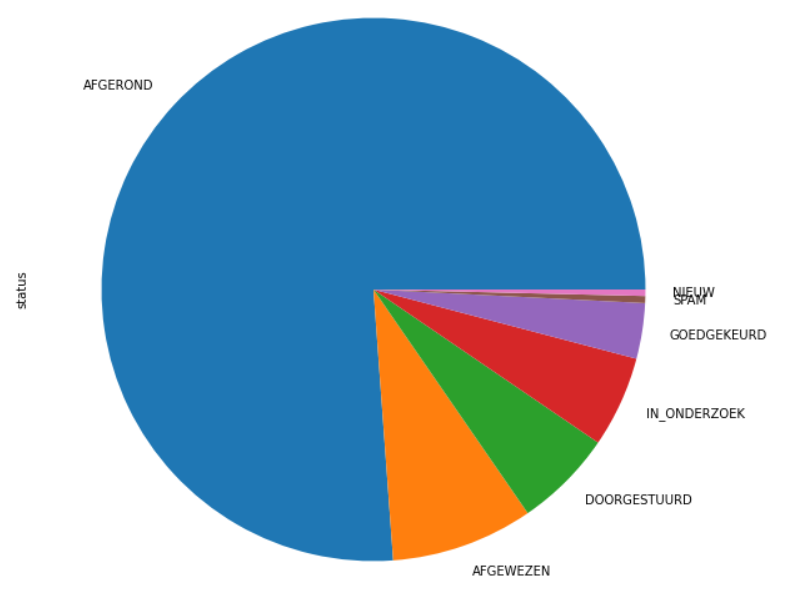
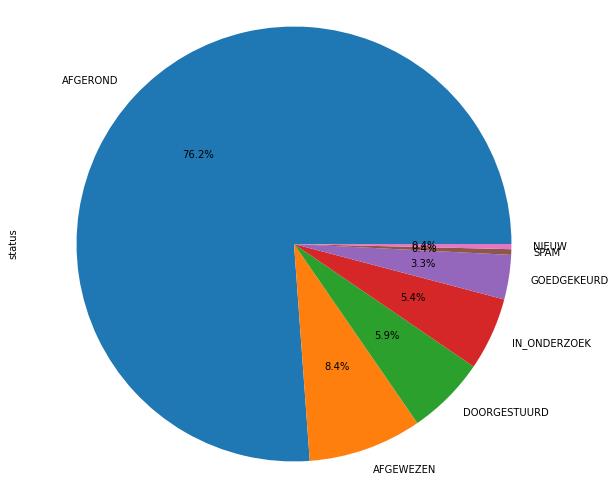
feedback changes bgt terugmeldignen

diff --git a/stories/bgt-terugmeldingen/index.md b/stories/bgt-terugmeldingen/index.md
@@ -3,16 +3,18 @@ layout: default
 title: BGT terugmeldingen
 ---
 
-# BGT terugmeldingen analyse
+<div style="width:50%; margin:0 auto;">
+ 
+<h1>BGT terugmeldingen analyse </h1>
 
-<br>
-
-## 1. Inleiding
+<h2> 1. Inleiding </h2>
 Gebruikers van de Basisregistratie Grootschalige Topografie (BGT) kunnen bij twijfel aan de juistheid van een gegeven een zogenaamde Terugmelding doen. Hiermee geven ze aan dat ze denken dat dit gegeven niet juist is. Het is aan de bronhouders te beoordelen of deze melding terecht is en zo ja om het gegeven te corrigeren.
-
+<br>
+<br>
 Terugmeldingen kunnen worden gedaan door burgers, bedrijven en overheden. In vrijwel alle meldingen wordt alleen in een "vrij tekstveld" informatie over de terugmeldingen meegegeven. Vanuit het BGT team kregen wij als Datascience Team de vraag of wij uit deze "vrije tekstvelden" waardevolle inzichten konden bieden over de terugmelding. Om dit te realiseren hebben wij een export (csv bestand) van de data ontvangen vanuit het terugmeldsysteem. 
-
-In onderstaande figuur is de verhouding van de terugkoppelingen per kanaal te zien.
+<br>
+<br>
+In onderstaande figuur is de verhouding van de terugmeldingen per kanaal te zien.
 
 <br>
 <figure id="figuur-3">
@@ -25,7 +27,7 @@ In onderstaande figuur is de verhouding van de terugkoppelingen per kanaal te zi
 </figure>
 <br>
 
-## 2. Doel Onderzoek
+<h2> 2. Doel Onderzoek </h2>
 Het doel van dit project is om inzicht te bieden op de volgende onderzoeksvragen;
 <br>
 -	Op welke BGT-objecttypen vinden de terugmeldingen plaats.
@@ -35,8 +37,8 @@ Het doel van dit project is om inzicht te bieden op de volgende onderzoeksvragen
 - In welke mate komt de afhandelingstermijn van een terugmelding overeen met de actualiteitseis van het BGT-objecttype.
 <br>
 
-## 3. Aanpak
-Op dit moment worden jaarlijks gemiddeld 7000 terugmeldingen gedaan op de BGT. Deze datastory is gebaseerd op analyse van alle, ruim 40.000 terugmeldingen. In onderstaande grafiek is te zien dat, logischerwijs, iets minder dan een kwart van alle terugmeldingen nog niet is afgerond.
+<h2> 3. Aanpak </h2>
+Op dit moment worden jaarlijks gemiddeld 7000 terugmeldingen gedaan op de BGT. Deze datastory is gebaseerd op analyse van alle, ruim 40.000 terugmeldingen vanaf 2016-06 tot het heden. In onderstaande grafiek is te zien dat, logischerwijs, meer dan driekwart van alle terugmeldingen is afgerond/afgewezen/doorgestuurd of gemarkeerd als spam, slechts een klein gedeelte is nog in progress.
 <br>
 <figure id="figuur-4">
   <a href="status.PNG">
@@ -48,7 +50,7 @@ Op dit moment worden jaarlijks gemiddeld 7000 terugmeldingen gedaan op de BGT. D
 </figure>
 <br>
 Het veld "omschrijving" is gebruikt voor de tekstanalyse. De omschrijving bestaat uit vrije tekst van verschillende lengtes en detaillering, soms bevat het alleen de naam van het object en in andere gevallen de volledige beschrijving van het probleem. Deze teksten hebben we door middel van een zogenoemde Word Cloud weergegeven in onderstaande afbeelding.
-<Br>
+<br>
 <figure id="figuur-1">
   <a href="wordcloud.png">
     <img src="wordcloud.png">
@@ -69,33 +71,117 @@ Het veld "omschrijving" is gebruikt voor de tekstanalyse. De omschrijving bestaa
 <br>
 Voor de volgende stap hebben we een lijst met BGT-objecttypen ontvangen. In dit bestand staan onder andere veelgebruikte afkortingen en synoniemen van de objecttypen. Een voorbeeld hiervan is het objecttype pand; deze wordt ook vaak geschreven als huis, gebouw, woning etc. Met deze lijst hebben wij doormiddel van reguliere expressie gekeken of de woorden voorkomen in het “vrije tekstveld” en zodoende er een objecttype aan gekoppeld. Indien er meerdere woorden in een vrij tekstveld voorkomen, pakt het model op dat moment het objecttype met de hoogste hiërarchie.
 <br>
-Wanneer een melding wordt geregistreerd in het systeem krijgt het een tijdstip registratie/wijzigen, mogelijk een korte toelichting door de bronhouder, een datum van afronding en een bronhouder naam/code. De afhandelingstermijn van een terugmelding is berekend door het verschil in dagen te berekenen tussen tijdstip registratie en tijdstip afronding/afwijzing/doorgestuurd.
-
-## 4.	Resultaten 
-
+<br>
+Wanneer een melding wordt geregistreerd in het systeem krijgt het een tijdstipregistratie en een bronhouder naam en code toegewezen. De bronhouder handelt de melding af door de status te wijzigen met eventueel een korte toelichting. De melding is afgehandeld als deze de status ‘afgerond’, ‘afgewezen’ of ‘doorgestuurd naar andere basisregistratie’ heeft bereikt. De afhandelingstermijn van een terugmelding is berekend door het verschil in dagen te berekenen tussen tijdstipregistratie en het tijdstip van afronding/afwijzing/doorgestuurd.
+<br>
+<br>
+<h2> 4.	Resultaten </h2>
 In onderstaande figuur zijn de resultaten van de eerste twee onderzoeksvragen gecombineerd, waarin is te zien dat de meest voorkomende objecten in de terugmeldingen panden en wegen zijn en dat deze gemiddeld binnen 159 en respectievelijk 157 dagen zijn afgehandeld.
 
 <br> 
 
-| objecttypen| aantal -| doorlooptijd |
-|:------------------------------|------|--- |
-| pand                          | 11649 |159 |
-| wegdeel                       | 10852 |157 |
-| begroeid terreindeel          | 3590  |154 |
-| waterdeel                     | 3480  |163 |
-| overig bouwwerk               | 1087  |155 |
-| vegetatieobject               | 988   |122 |
-| onbegroeid terreindeel        | 843   |128 |
-| ondersteunend wegdeel         | 837   |69  |
-| overbruggingsdeel             | 383   |169 |
-| kunstwerkdeel                 | 287   |263 |
-| scheiding                     | 211   |170 |
-| spoor                         | 73    |121 |
-| ondersteunend waterdeel       | 62    |132 |
-| tunneldeel                    | 35    |294 |
+<table>
+  <tr>
+    <th style="padding-right: 120px;">objecttypen</th>
+    <th style="padding-right: 120px;">aantal</th>
+    <th style="padding-right: 120px;">doorlooptijd in dagen </th>
+    <th>actualiteitseis in maanden</th>
+  </tr>
+  <tr>
+    <td>pand</td>
+    <td>16069</td>
+    <td>159</td>
+    <td>6</td>
+  </tr>
+  <tr>
+    <td>wegdeel</td>
+    <td>14257</td>
+    <td>157</td>
+    <td>6</td>
+  </tr>
+    <tr>
+    <td> geen classificatie</td>
+    <td>12788</td>
+    <td>192</td>
+    <td>6</td>
+  </tr>
+    <tr>
+    <td>waterdeel</td>
+    <td>4312</td>
+    <td>163</td>
+    <td>18</td>
+  </tr>
+    <tr>
+    <td>begroeid terreindeel</td>
+    <td>4153</td>
+    <td>154</td>
+    <td>18</td>
+  </tr>
+   <tr>
+    <td>vegetatieobject</td>
+    <td>1670</td>
+    <td>122</td>
+    <td>18</td>
+  </tr>
+    <tr>
+    <td>overig bouwwerk</td>
+    <td>1494</td>
+    <td>155</td>
+    <td>18</td>
+  </tr>
+    <tr>
+    <td>ondersteunend wegdeel</td>
+    <td>987</td>
+    <td>69</td>
+    <td>18</td>
+  </tr>
+    <tr>
+    <td>onbegroeid terreindeel</td>
+    <td>969</td>
+    <td>128</td>
+    <td>18</td>
+  </tr>
+    <tr>
+    <td>overbruggingsdeel</td>
+    <td>520</td>
+    <td>169</td>
+    <td>6</td>
+  </tr>
+    <tr>
+    <td>kunstwerkdeel</td>
+    <td>421</td>
+    <td>262</td>
+    <td>18</td>
+  </tr>
+    <tr>
+    <td>scheiding</td>
+    <td>281</td>
+    <td>170</td>
+    <td>18</td>
+  </tr>
+    <tr>
+    <td>spoor</td>
+    <td>104</td>
+    <td>121</td>
+    <td>18</td>
+  </tr>
+    <tr>
+    <td>ondersteunend waterdeel  </td>
+    <td>62</td>
+    <td>132</td>
+    <td>18</td>
+  </tr>
+   <tr>
+    <td>tunneldeel</td>
+    <td>51</td>
+    <td>294</td>
+    <td>6</td>
+  </tr>
+</table>
+
 
 <br>
-
+</div>
 
 
 
